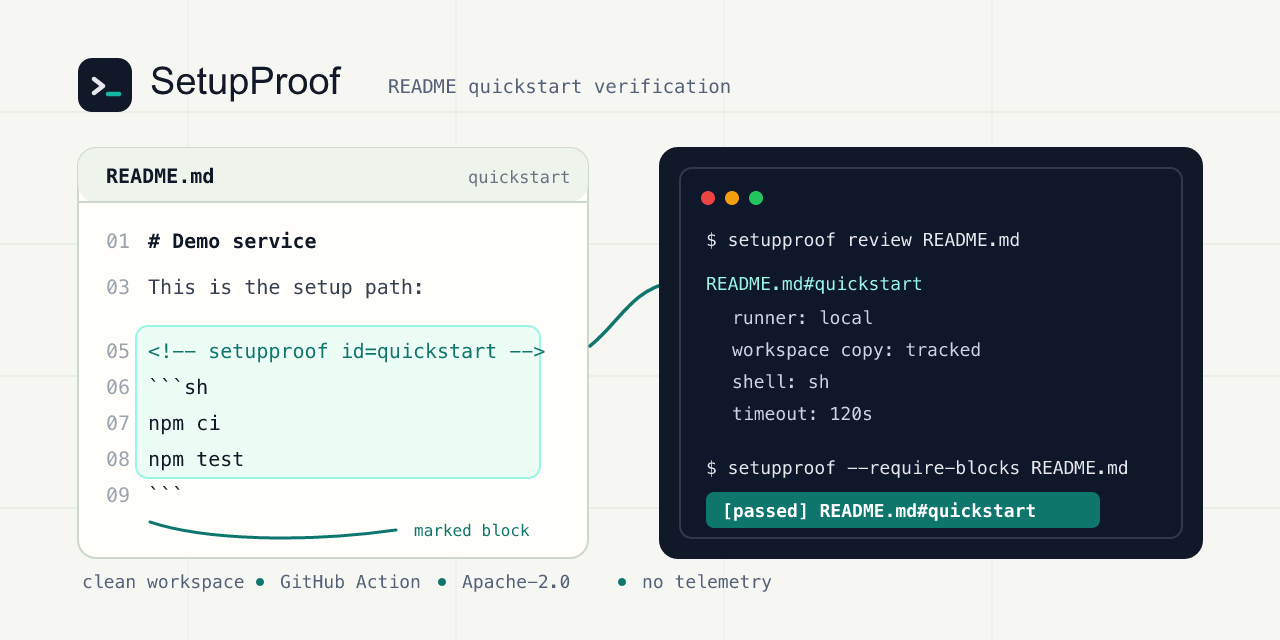
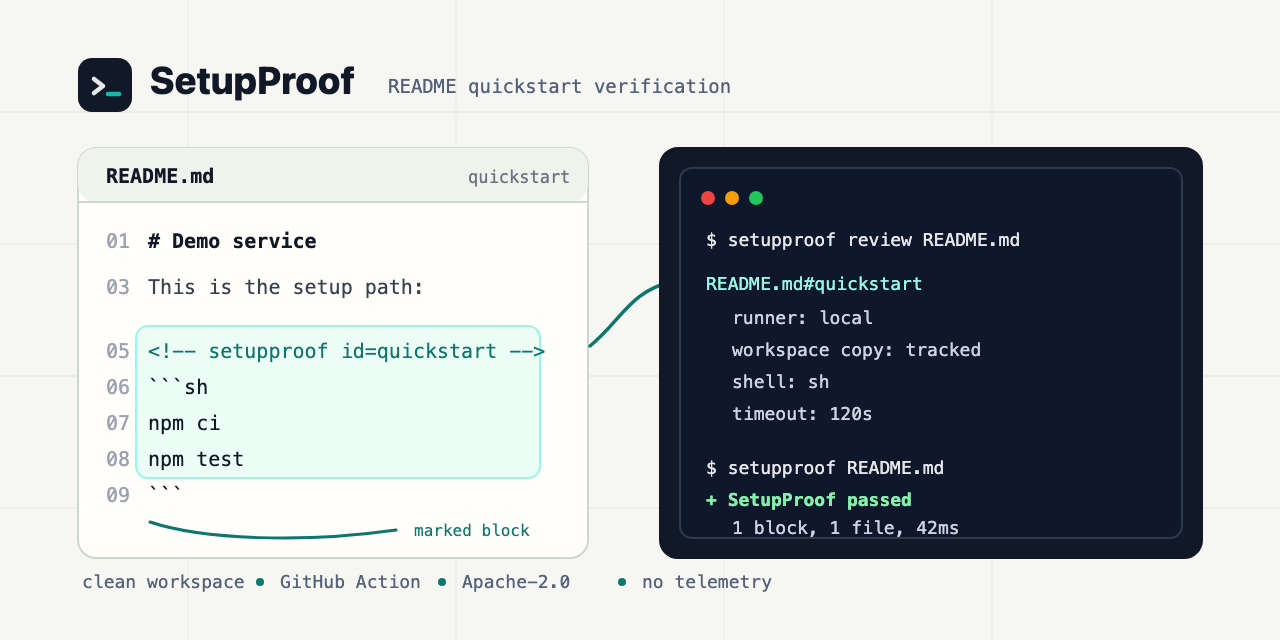
Polish terminal output

diff --git a/docs/index.html b/docs/index.html
@@ -196,6 +196,7 @@
       .demo img {
         display: block;
         width: min(100%, 980px);
+        max-width: 100%;
         height: auto;
         border: 1px solid #18212f;
         background: #0f172a;
@@ -247,8 +248,30 @@
         gap: 18px;
       }
 
+      .terminal-pair pre {
+        overflow-wrap: anywhere;
+        white-space: pre-wrap;
+      }
+
+      .terminal-note {
+        margin: -2px 0 0;
+        color: var(--muted);
+        font-size: 16px;
+      }
+
+      .hero > *,
+      .proof > *,
+      .cases > *,
+      .workflow-grid > *,
+      .terminal-pair > *,
+      .final > * {
+        min-width: 0;
+      }
+
       pre {
         margin: 0;
+        max-width: 100%;
+        min-width: 0;
         overflow-x: auto;
         border: 1px solid #1f2937;
         background: #111827;
@@ -545,9 +568,19 @@
 npm ci
 npm test
 ```</code></pre>
-          <pre><code><span class="fail">[failed]</span> README.md#quickstart file=README.md:18 runner=local timeout=120s result=failed exit=1
+          <pre><code><span class="fail">!</span> SetupProof failed
+  1 block, 1 file, 742ms
 
-Fix the setup path once, in the same place contributors read it.</code></pre>
+<span class="fail">!</span> README.md#quickstart
+  file=README.md:18
+  runner=local
+  timeout=120s result=failed
+  exit=1
+  next command:
+    setupproof review README.md</code></pre>
+          <p class="terminal-note">
+            Fix the setup path once, in the same place contributors read it.
+          </p>
         </div>
       </section>
 

diff --git a/internal/report/report.go b/internal/report/report.go
@@ -149,6 +149,61 @@ func RenderTerminal(w io.Writer, r Report, opts TerminalOptions) error {
 		_, err := fmt.Fprintln(w, "No marked blocks found.")
 		return err
 	}
+	if opts.NoGlyphs {
+		return renderTerminalRows(w, r, opts)
+	}
+	if len(r.Blocks) == 0 && r.Result == "error" {
+		if _, err := fmt.Fprintf(w, "%sSetupProof %s\n", terminalStatusPrefix(r.Result, opts), r.Result); err != nil {
+			return err
+		}
+		var details []string
+		if r.Runner.Kind != "" {
+			details = append(details, "runner="+r.Runner.Kind)
+		}
+		if r.Runner.Error != nil && r.Runner.Error.Reason != "" {
+			details = append(details, "reason="+r.Runner.Error.Reason)
+		}
+		if len(details) > 0 {
+			if _, err := fmt.Fprintf(w, "  %s\n", strings.Join(details, " ")); err != nil {
+				return err
+			}
+		}
+		if next := doctorCommand(r.Files); next != "" {
+			_, err := fmt.Fprintf(w, "  next command: %s\n", next)
+			return err
+		}
+		return nil
+	}
+	if _, err := fmt.Fprintf(w, "%sSetupProof %s\n", terminalStatusPrefix(r.Result, opts), r.Result); err != nil {
+		return err
+	}
+	if _, err := fmt.Fprintf(w, "  %s, %s, %s\n\n", terminalCount(len(r.Blocks), "block"), terminalCount(len(r.Files), "file"), terminalDuration(r.DurationMs)); err != nil {
+		return err
+	}
+	for index, block := range r.Blocks {
+		if index > 0 {
+			if _, err := fmt.Fprintln(w); err != nil {
+				return err
+			}
+		}
+		if _, err := fmt.Fprintf(w, "%s%s\n", terminalStatusPrefix(block.Result, opts), summaryBlockID(block)); err != nil {
+			return err
+		}
+		for _, details := range terminalBlockDetailLines(block) {
+			if _, err := fmt.Fprintf(w, "  %s\n", details); err != nil {
+				return err
+			}
+		}
+		if needsTerminalGuidance(block.Result) {
+			if _, err := fmt.Fprintf(w, "  next command: %s\n", reviewCommand(block.File)); err != nil {
+				return err
+			}
+		}
+	}
+	return nil
+}
+
+func renderTerminalRows(w io.Writer, r Report, opts TerminalOptions) error {
 	if len(r.Blocks) == 0 && r.Result == "error" {
 		line := "SetupProof runner error"
 		if r.Runner.Kind != "" {
@@ -197,6 +252,61 @@ func RenderTerminal(w io.Writer, r Report, opts TerminalOptions) error {
 		}
 	}
 	return nil
+}
+
+func terminalBlockDetailLines(block Block) []string {
+	var lines []string
+	if location := summaryLocation(block); location != "" {
+		lines = append(lines, "file="+location)
+	}
+	var runnerFields []string
+	if block.Runner != "" {
+		runnerFields = append(runnerFields, "runner="+block.Runner)
+	}
+	if block.DockerImage != "" {
+		runnerFields = append(runnerFields, "image="+block.DockerImage)
+	}
+	if len(runnerFields) > 0 {
+		lines = append(lines, strings.Join(runnerFields, " "))
+	}
+	var resultFields []string
+	if block.Timeout != "" {
+		resultFields = append(resultFields, "timeout="+block.Timeout)
+	}
+	if block.Result != "" {
+		resultFields = append(resultFields, "result="+block.Result)
+	}
+	if block.Result == "failed" || block.Result == "timeout" {
+		resultFields = append(resultFields, fmt.Sprintf("exit=%d", block.ExitCode))
+	}
+	if block.Reason != "" {
+		resultFields = append(resultFields, "reason="+block.Reason)
+	}
+	if block.InteractiveCommand != "" {
+		resultFields = append(resultFields, "command="+block.InteractiveCommand)
+	}
+	if block.CleanupCompleted != nil {
+		resultFields = append(resultFields, fmt.Sprintf("cleanupCompleted=%t", *block.CleanupCompleted))
+	}
+	if len(resultFields) > 0 {
+		lines = append(lines, strings.Join(resultFields, " "))
+	}
+	return lines
+}
+
+func terminalCount(count int, singular string) string {
+	label := singular
+	if count != 1 {
+		label += "s"
+	}
+	return fmt.Sprintf("%d %s", count, label)
+}
+
+func terminalDuration(ms int64) string {
+	if ms < 1000 {
+		return fmt.Sprintf("%dms", ms)
+	}
+	return (time.Duration(ms) * time.Millisecond).String()
 }
 
 func terminalStatusPrefix(result string, opts TerminalOptions) string {

diff --git a/internal/report/report_test.go b/internal/report/report_test.go
@@ -182,10 +182,12 @@ func TestRenderMarkdownUsesFenceLongerThanContent(t *testing.T) {
 
 func TestRenderTerminalOptionsControlStatusPrefix(t *testing.T) {
 	r := Report{
-		Result:    "failed",
-		ExitCode:  1,
-		Workspace: planning.Workspace{Mode: "temporary"},
-		Runner:    planning.Runner{Kind: "local"},
+		Result:     "failed",
+		ExitCode:   1,
+		DurationMs: 42,
+		Workspace:  planning.Workspace{Mode: "temporary"},
+		Runner:     planning.Runner{Kind: "local"},
+		Files:      []string{"README.md"},
 		Blocks: []Block{{
 			ID:          "fail",
 			QualifiedID: "README.md#fail",
@@ -206,6 +208,19 @@ func TestRenderTerminalOptionsControlStatusPrefix(t *testing.T) {
 	if !strings.Contains(colored.String(), "\x1b[31m!") {
 		t.Fatalf("colored terminal output missing failure prefix: %q", colored.String())
 	}
+	for _, want := range []string{
+		"SetupProof failed",
+		"1 block, 1 file, 42ms",
+		"README.md#fail",
+		"file=README.md:1",
+		"runner=local",
+		"timeout=120s result=failed exit=1 reason=exit-code",
+		"next command: setupproof review README.md",
+	} {
+		if !strings.Contains(colored.String(), want) {
+			t.Fatalf("colored terminal output missing %q:\n%s", want, colored.String())
+		}
+	}
 
 	var plain bytes.Buffer
 	if err := RenderTerminal(&plain, r, TerminalOptions{NoColor: true, NoGlyphs: true}); err != nil {
@@ -216,6 +231,63 @@ func TestRenderTerminalOptionsControlStatusPrefix(t *testing.T) {
 	}
 	if !strings.Contains(plain.String(), "[failed] README.md#fail") {
 		t.Fatalf("plain terminal output missing text status prefix: %q", plain.String())
+	}
+	if strings.Contains(plain.String(), "SetupProof failed") {
+		t.Fatalf("plain terminal output should keep compact row format: %q", plain.String())
+	}
+}
+
+func TestRenderTerminalDefaultOutputSeparatesBlocks(t *testing.T) {
+	r := Report{
+		Result:     "passed",
+		ExitCode:   0,
+		DurationMs: 1200,
+		Workspace:  planning.Workspace{Mode: "temporary"},
+		Runner:     planning.Runner{Kind: "local"},
+		Files:      []string{"README.md", "docs/INSTALL.md"},
+		Blocks: []Block{
+			{
+				ID:          "quickstart",
+				QualifiedID: "README.md#quickstart",
+				File:        "README.md",
+				Line:        12,
+				Runner:      "local",
+				Timeout:     "120s",
+				Result:      "passed",
+			},
+			{
+				ID:          "install",
+				QualifiedID: "docs/INSTALL.md#install",
+				File:        "docs/INSTALL.md",
+				Line:        34,
+				Runner:      "docker",
+				DockerImage: "alpine@sha256:aaaaaaaaaaaaaaaaaaaaaaaaaaaaaaaaaaaaaaaaaaaaaaaaaaaaaaaaaaaaaaaa",
+				Timeout:     "60s",
+				Result:      "passed",
+			},
+		},
+	}
+
+	var out bytes.Buffer
+	if err := RenderTerminal(&out, r, TerminalOptions{NoColor: true}); err != nil {
+		t.Fatal(err)
+	}
+	rendered := out.String()
+	for _, want := range []string{
+		"+ SetupProof passed",
+		"2 blocks, 2 files, 1.2s",
+		"+ README.md#quickstart",
+		"file=README.md:12",
+		"runner=local",
+		"timeout=120s result=passed",
+		"+ docs/INSTALL.md#install",
+		"file=docs/INSTALL.md:34",
+		"runner=docker image=alpine@sha256:aaaaaaaaaaaaaaaaaaaaaaaaaaaaaaaaaaaaaaaaaaaaaaaaaaaaaaaaaaaaaaaa",
+		"timeout=60s result=passed",
+	} {
+		if !strings.Contains(rendered, want) {
+			t.Fatalf("terminal output missing %q:\n%s", want, rendered)
+		}
 	}
 }
 

diff --git a/internal/runner/local_test.go b/internal/runner/local_test.go
@@ -551,8 +551,20 @@ func assertNoWorkspaces(t *testing.T, parent string) {
 }
 
 func blockLineContains(output string, blockID string, want string) bool {
+	inBlock := false
 	for _, line := range strings.Split(output, "\n") {
-		if strings.Contains(line, blockID) && strings.Contains(line, want) {
+		if strings.Contains(line, blockID) {
+			if strings.Contains(line, want) {
+				return true
+			}
+			inBlock = true
+			continue
+		}
+		if strings.TrimSpace(line) == "" {
+			inBlock = false
+			continue
+		}
+		if inBlock && strings.Contains(line, want) {
 			return true
 		}
 	}

diff --git a/README.md b/README.md
@@ -32,7 +32,14 @@ If that setup path breaks, the failure points back to the README block people
 would have copied:
 
 ```text
-[failed] README.md#quickstart file=README.md:18 runner=local timeout=120s result=failed exit=1
+! SetupProof failed
+  1 block, 1 file, 742ms
+
+! README.md#quickstart
+  file=README.md:18
+  runner=local
+  timeout=120s result=failed exit=1
+  next command: setupproof review README.md
 ```
 
 The goal is not to lint Markdown. The goal is to keep the public setup path
@@ -79,10 +86,26 @@ setupproof review README.md
 Run the marked blocks:
 
 ```sh
-setupproof --require-blocks --no-color --no-glyphs README.md
+setupproof README.md
 ```
 
-Typical output is intentionally plain:
+Typical local output is compact and scan-friendly:
+
+```text
++ SetupProof passed
+  1 block, 1 file, 35ms
+
++ README.md#quickstart
+  file=README.md:12
+  runner=local
+  timeout=120s result=passed
+```
+
+For deterministic CI logs, keep the plain format:
+
+```sh
+setupproof --require-blocks --no-color --no-glyphs README.md
+```
 
 ```text
 [passed] README.md#quickstart file=README.md:12 runner=local timeout=120s result=passed
